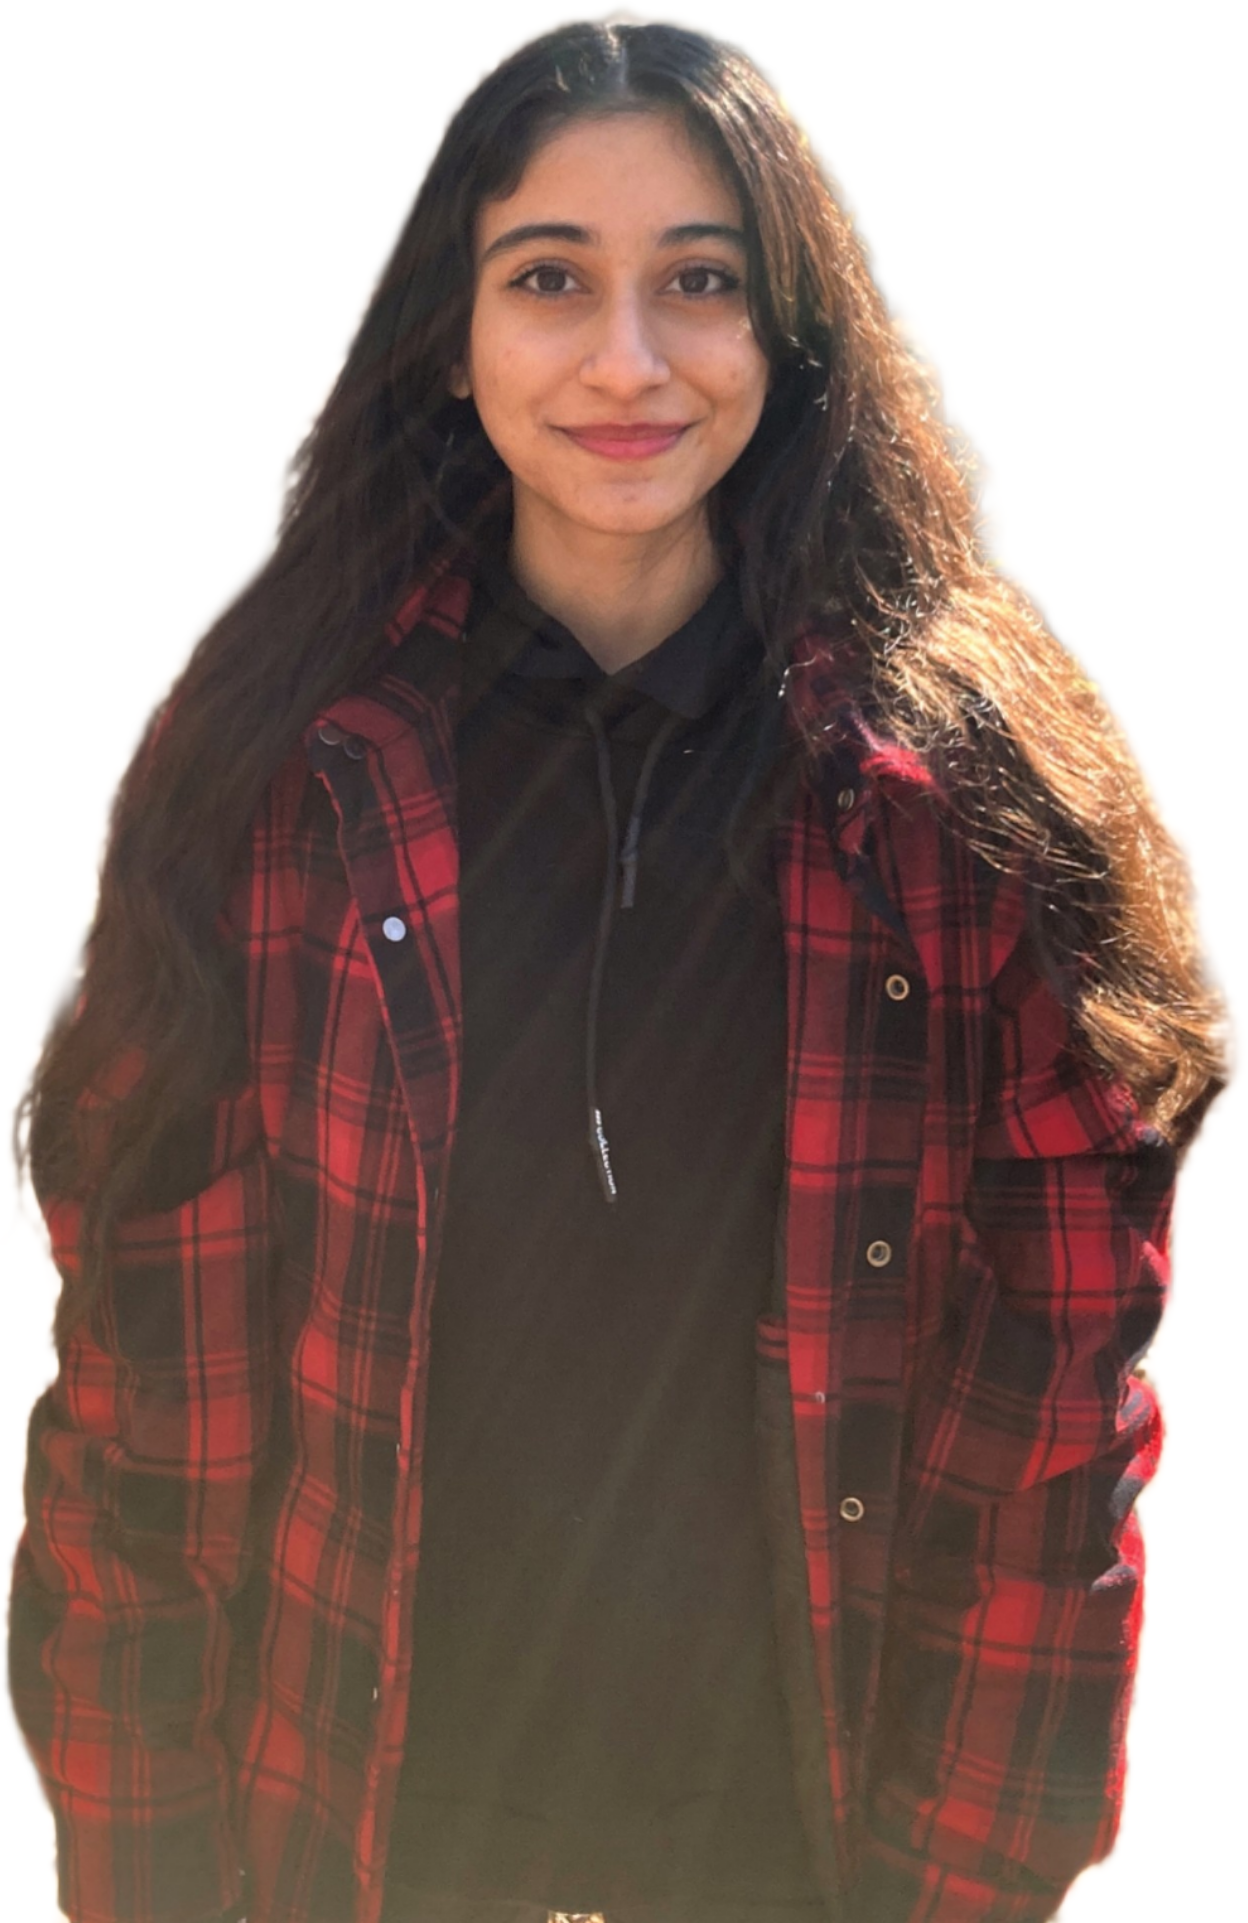
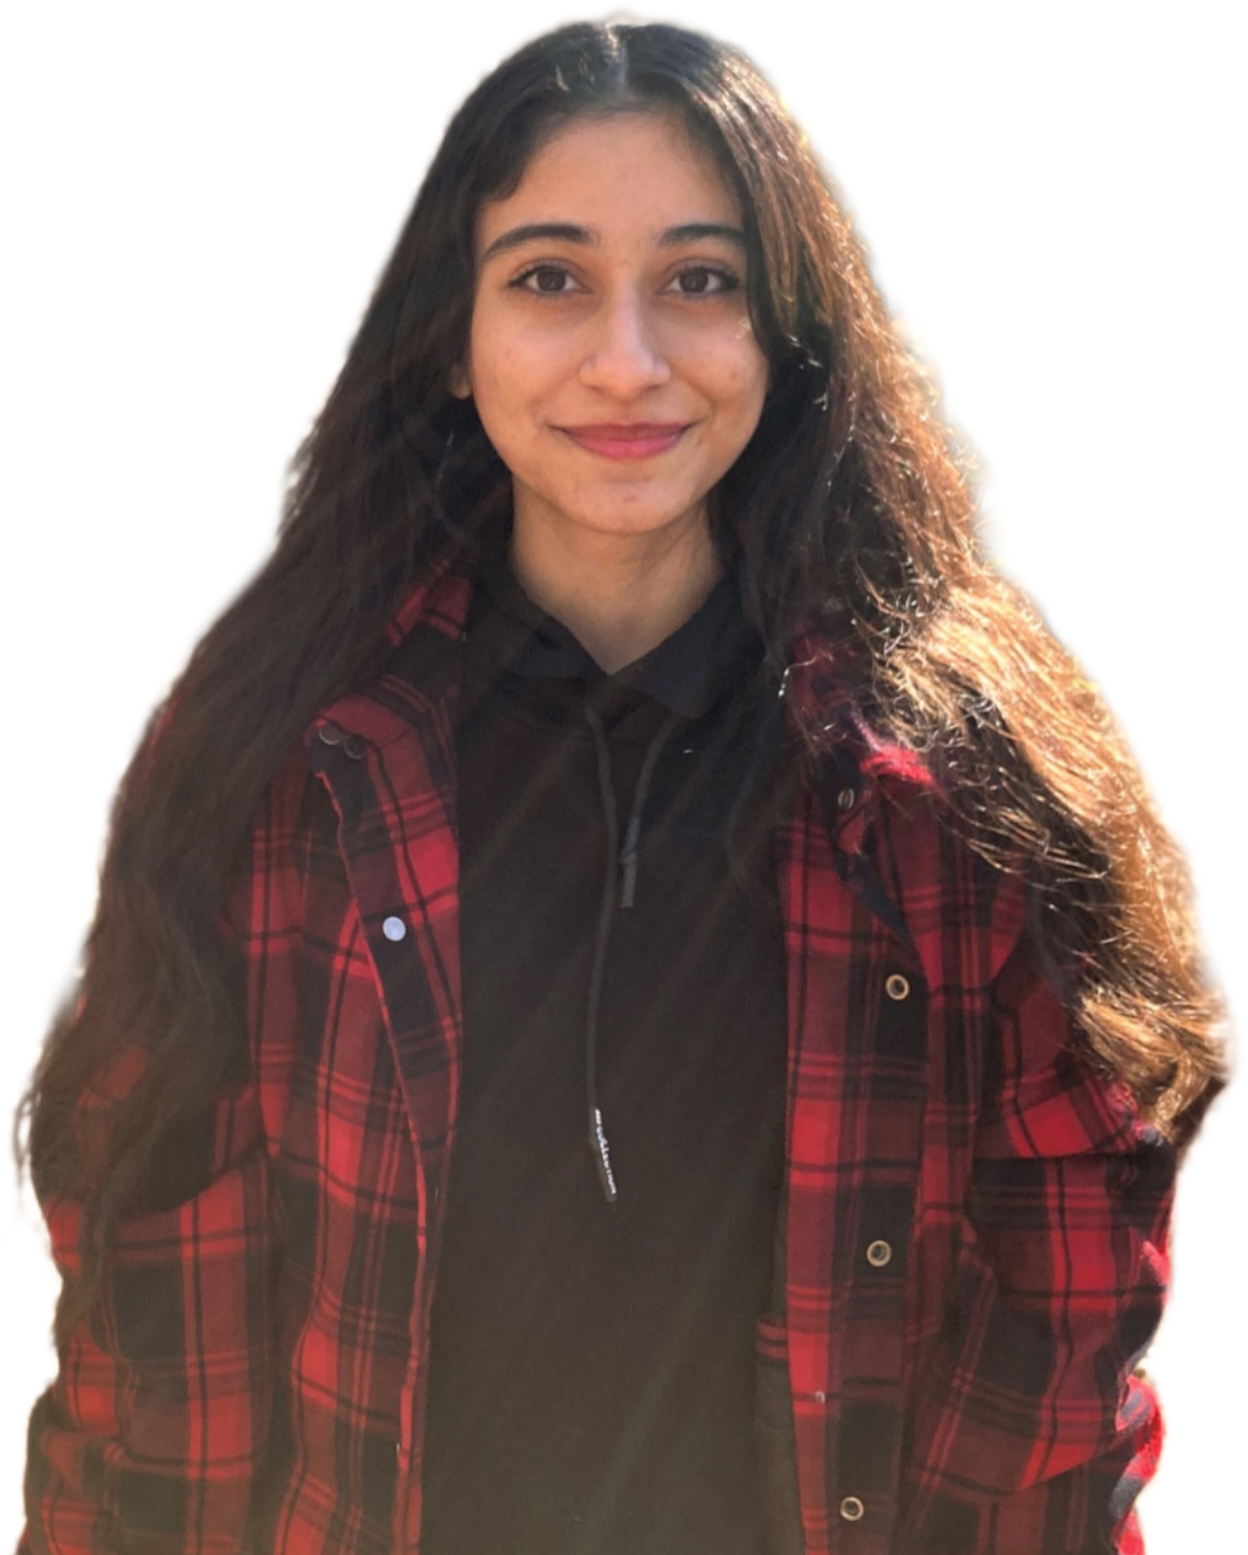
change pictures

diff --git a/project.html b/project.html
@@ -77,10 +77,7 @@
       <h3 class="mb-5">These are my projects that I have worked on so far.</h3>
       <div class="row p-5">
         <div class="col-lg d-none d-sm-block">
-          <img
-            src="img/Screenshot from 2023-03-26 12-45-11.png"
-            class="img-fluid"
-          />
+          <img src="img/Fesenjan.jpg" class="img-fluid" />
         </div>
         <div class="col p-md-5">
           <h1>Fesenjan Project</h1>
@@ -90,45 +87,55 @@
             live in Bookmarksgrove right at the coast of the Semantics, a large
             language ocean. A small river named Duden flows by
           </p>
-          <a href="" class="btn contact-button">Learn More</a>
+          <a href="" class="btn contact-button">See Project</a>
         </div>
       </div>
-
       <div class="row p-5">
         <div class="col p-md-5">
-          <h1>Fesenjan Project</h1>
+          <h1>Weather App</h1>
           <p class="fs-4">
             Far far away, behind the word mountains, far from the countries
             Vokalia and Consonantia, there live the blind texts. Separated they
             live in Bookmarksgrove right at the coast of the Semantics, a large
             language ocean. A small river named Duden flows by
           </p>
-          <a href="" class="btn contact-button">Learn More</a>
+          <a href="" class="btn contact-button">See Project</a>
         </div>
         <div class="col-lg d-none d-sm-block">
-          <img
-            src="img/Screenshot from 2023-03-26 12-45-11.png"
-            class="img-fluid"
-          />
+          <img src="img/weather.png" class="img-fluid" />
         </div>
       </div>
-
-      <div class="row p-5">
+      <!-- <div class="row p-5 d-block d-md-none">
         <div class="col-lg d-none d-sm-block">
           <img
-            src="img/Screenshot from 2023-03-26 12-45-11.png"
+            src="img/Weather.jpg"
             class="img-fluid"
           />
         </div>
         <div class="col-md p-md-5">
-          <h1>Fesenjan Project</h1>
+          <h1>Weather App</h1>
           <p class="fs-4">
             Far far away, behind the word mountains, far from the countries
             Vokalia and Consonantia, there live the blind texts. Separated they
             live in Bookmarksgrove right at the coast of the Semantics, a large
             language ocean. A small river named Duden flows by
           </p>
-          <a href="" class="btn contact-button">Learn More</a>
+          <a href="" class="btn contact-button">See Project</a>
+        </div>
+      </div> -->
+      <div class="row p-5">
+        <div class="col-lg d-none d-sm-block">
+          <img src="img/Portfolio.jpg" class="img-fluid" />
+        </div>
+        <div class="col-md p-md-5">
+          <h1>Portfolio Project</h1>
+          <p class="fs-4">
+            Far far away, behind the word mountains, far from the countries
+            Vokalia and Consonantia, there live the blind texts. Separated they
+            live in Bookmarksgrove right at the coast of the Semantics, a large
+            language ocean. A small river named Duden flows by
+          </p>
+          <a href="" class="btn contact-button">See Project</a>
         </div>
       </div>
     </main>

diff --git a/src/style.css b/src/style.css
@@ -1,9 +1,9 @@
 :root {
-  --first-color: #d1dcf0;
-  --second-color: #ffffff;
-  --third-color: #b3c78c;
-  --fourth-color: #152337;
-  --fifth-color: #8d88a2;
+  --first-color: #dfdad4;
+  --second-color: #76838f;
+  --third-color: #aaa6a3;
+  --fourth-color: #232a37;
+  --fifth-color: #354252;
   --default-font: "Merriweather", serif;
   --second-font: "Farsan", cursive;
   --title-font: cursive;
@@ -29,8 +29,11 @@ h1 {
   font-size: 50px;
   font-weight: bold;
 }
-header img {
-  height: 450px !important;
+.home img {
+  position: relative;
+  top: -50px;
+  left: -40px;
+  box-shadow: 0px 1px 0px 0px;
 }
 .contact-button {
   color: var(--third-color);
@@ -68,7 +71,7 @@ header img {
   color: inherit;
 }
 .second-main h3 {
-  color: var(--first-color);
+  color: var(--third-color);
   font-family: var(--title-font);
 }
 @media (min-width: 500px) {
@@ -79,7 +82,7 @@ header img {
   }
 }
 @media (max-width: 500px) {
-  .first-main i{
+  .first-main i {
     font-size: 80px;
   }
   .first-main h3 {
@@ -91,7 +94,6 @@ header img {
   .second-main img {
     margin-bottom: 50px;
   }
-
 }
 @media (min-width: 768px) and (max-width: 1200px) {
   .left h1 {
@@ -102,6 +104,10 @@ header img {
 /* about page style */
 .about a {
   color: var(--fifth-color);
+}
+.about img {
+  position: relative;
+  top: -100px;
 }
 
 /* project page style */

diff --git a/index.html b/index.html
@@ -73,7 +73,7 @@
         </div>
       </div>
     </nav>
-    <header>
+    <header class="home">
       <div class="container mb-5">
         <div class="row">
           <div class="col-md-3 pt-4 left">
@@ -90,9 +90,9 @@
               >Contact Me</a
             >
           </div>
-          <div class="col-5 d-none d-md-block">
+          <div class="col d-none d-md-block">
             <img
-              src="img/Picsart_23-03-28_23-28-04-698.png"
+              src="img/Picsart_23-03-29_02-07-29-663.png"
               alt="Kimia Personal Picture"
               class="img-fluid"
             />

diff --git a/about.html b/about.html
@@ -98,7 +98,7 @@
         </div>
         <div class="col-md-5">
           <img
-            src="img/IMG_20220203_112417_491.webp"
+            src="img/Picsart_23-03-29_02-06-55-956.png"
             alt="Kimia Personal Picture"
             class="img-fluid"
           />
